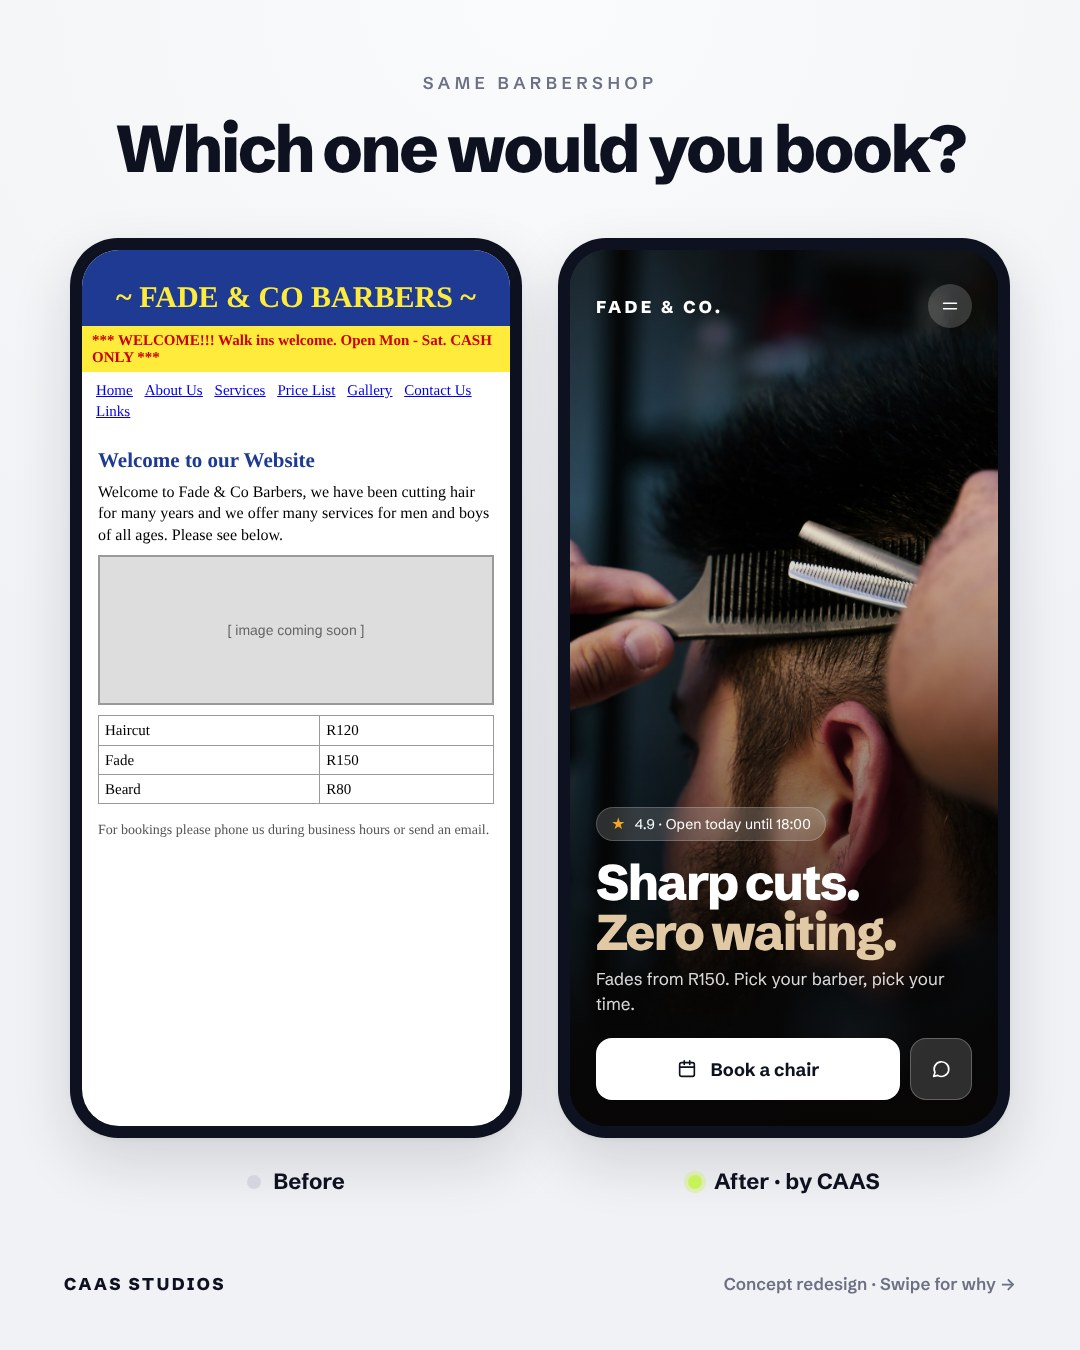
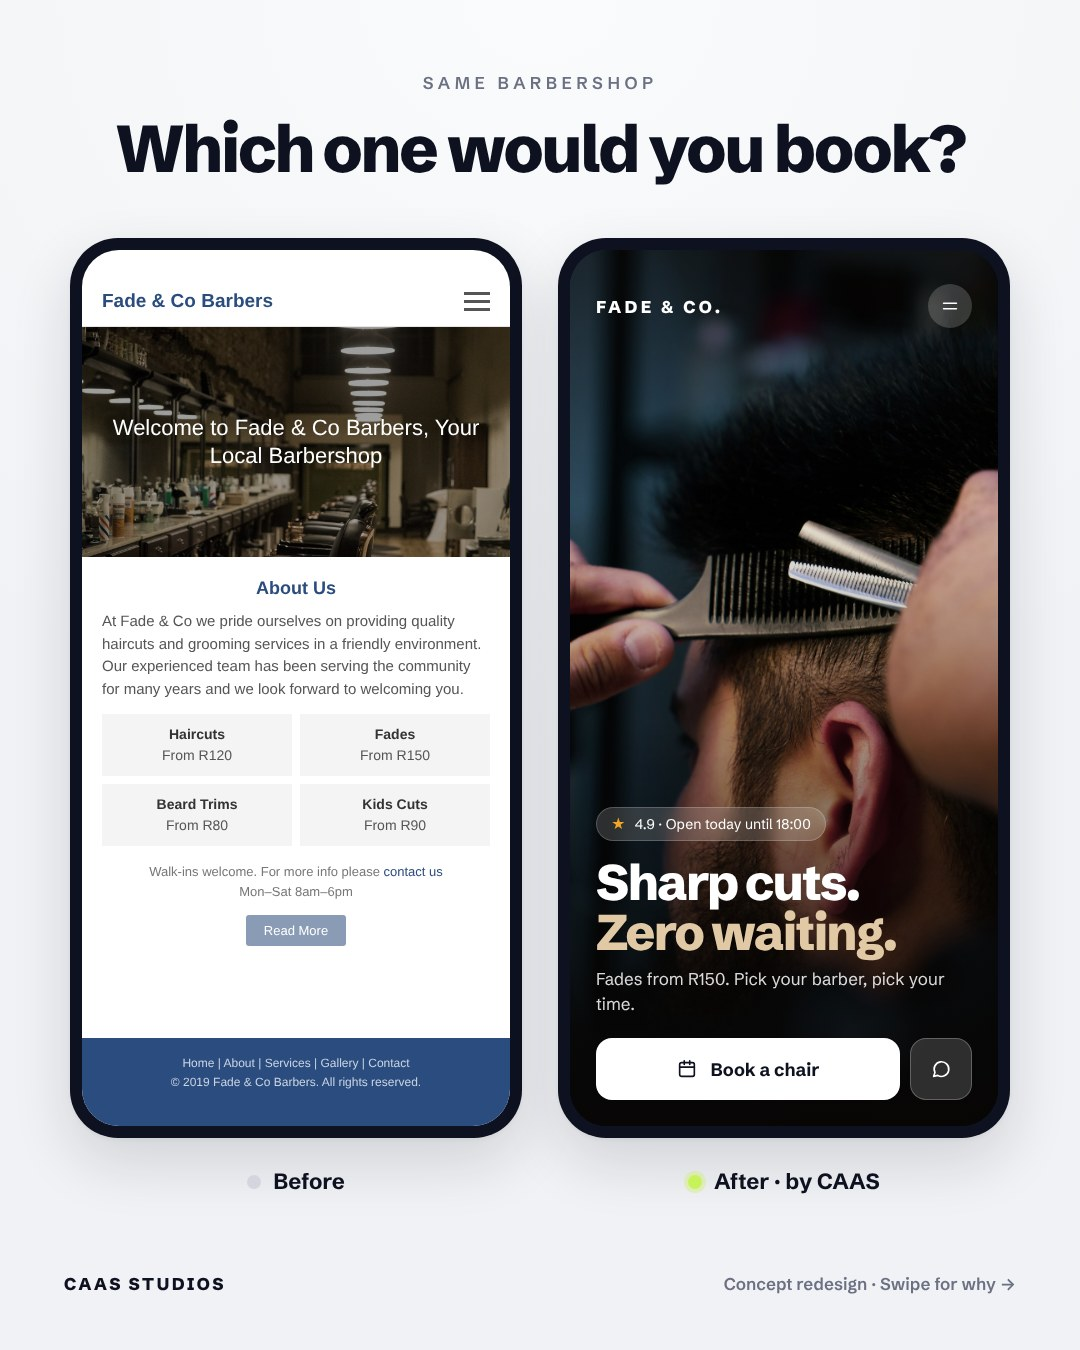
Before/after example: believable template site as the 'before'
Claude-Session: https://claude.ai/code/session_019aZJVd9buMVRKMxeQtoBSs

diff --git a/posts/_examples/03-before-after/slide1.html b/posts/_examples/03-before-after/slide1.html
@@ -10,18 +10,25 @@
   .tag { font-size: 22px; font-weight: 700; display: flex; align-items: center; gap: 12px; }
   .tag .dot { width: 14px; height: 14px; border-radius: 50%; }
 
-  /* BEFORE: a dated, cluttered site */
-  .old { background: #fff; font-family: "Times New Roman", Times, serif; color: #000; }
-  .old .bar { background: #1F3A93; color: #FFEB3B; text-align: center; padding: 30px 10px 12px; font-size: 30px; font-weight: bold; }
-  .old .marq { background: #FFEB3B; color: #C00; font-size: 15px; padding: 6px 10px; font-weight: bold; }
-  .old .links { display: flex; flex-wrap: wrap; gap: 4px 12px; padding: 10px 14px; font-size: 15px; color: #00E; text-decoration: underline; }
-  .old .links span { text-decoration: underline; }
-  .old .body { padding: 6px 16px; font-size: 16px; line-height: 1.35; }
-  .old .body h3 { font-size: 21px; margin: 10px 0 6px; color: #1F3A93; }
-  .old .img { height: 150px; background: #ddd; border: 2px solid #999; display: flex; align-items: center; justify-content: center; color: #666; font-size: 14px; margin: 10px 0; font-family: Arial, sans-serif; }
-  .old table { border-collapse: collapse; width: 100%; font-size: 15px; }
-  .old td { border: 1px solid #999; padding: 4px 6px; }
-  .old .call { margin: 12px 16px; font-size: 14px; color: #555; }
+  /* BEFORE: an average template site — not broken, just forgettable */
+  .old { background: #fff; font-family: Arial, Helvetica, sans-serif; color: #333; }
+  .old .top { display: flex; justify-content: space-between; align-items: center; padding: 40px 20px 14px; border-bottom: 1px solid #e5e5e5; }
+  .old .logo { font-size: 19px; font-weight: bold; color: #2b4c7e; }
+  .old .burger { width: 26px; display: flex; flex-direction: column; gap: 5px; }
+  .old .burger i { height: 3px; background: #555; display: block; }
+  .old .hero { height: 230px; position: relative; display: flex; align-items: center; justify-content: center; text-align: center; }
+  .old .hero .bgp { position: absolute; inset: 0; background-size: cover; background-position: 50% 45%; filter: saturate(0.6) brightness(0.62); }
+  .old .hero h3 { position: relative; color: #fff; font-size: 22px; font-weight: normal; margin: 0; padding: 0 30px; line-height: 1.3; }
+  .old .body { padding: 18px 20px 0; font-size: 15px; line-height: 1.5; color: #555; }
+  .old .body h4 { font-size: 18px; color: #2b4c7e; margin: 0 0 8px; text-align: center; }
+  .old .body p { margin: 0 0 14px; }
+  .old .svc { display: grid; grid-template-columns: repeat(2, minmax(0,1fr)); gap: 8px; font-size: 14px; }
+  .old .svc div { background: #f4f4f4; padding: 10px; text-align: center; }
+  .old .svc b { display: block; color: #333; }
+  .old .contact { margin: 16px 20px 0; font-size: 13px; color: #777; text-align: center; line-height: 1.5; }
+  .old .contact a { color: #2b4c7e; }
+  .old .foot { margin-top: auto; background: #2b4c7e; color: #c9d3e3; font-size: 12px; text-align: center; padding: 16px 12px 34px; line-height: 1.6; }
+  .old .more { margin: 14px auto 0; font-size: 13px; color: #fff; background: #8a9bb5; padding: 8px 18px; border-radius: 3px; }
 
   /* AFTER: the CAAS redesign */
   .new { color: #fff; background: #0B0A09; }
@@ -46,20 +53,21 @@
   <div class="pair">
     <div class="col">
       <div class="phone shadow"><div class="screen old">
-        <div class="bar">~ FADE &amp; CO BARBERS ~</div>
-        <div class="marq">*** WELCOME!!! Walk ins welcome. Open Mon - Sat. CASH ONLY ***</div>
-        <div class="links"><span>Home</span><span>About Us</span><span>Services</span><span>Price List</span><span>Gallery</span><span>Contact Us</span><span>Links</span></div>
+        <div class="top"><div class="logo">Fade &amp; Co Barbers</div><div class="burger"><i></i><i></i><i></i></div></div>
+        <div class="hero"><div class="bgp" style="background-image: url('../../../stock/barbershop/interior.jpg')"></div><h3>Welcome to Fade &amp; Co Barbers, Your Local Barbershop</h3></div>
         <div class="body">
-          <h3>Welcome to our Website</h3>
-          Welcome to Fade &amp; Co Barbers, we have been cutting hair for many years and we offer many services for men and boys of all ages. Please see below.
-          <div class="img">[ image coming soon ]</div>
-          <table>
-            <tr><td>Haircut</td><td>R120</td></tr>
-            <tr><td>Fade</td><td>R150</td></tr>
-            <tr><td>Beard</td><td>R80</td></tr>
-          </table>
+          <h4>About Us</h4>
+          <p>At Fade &amp; Co we pride ourselves on providing quality haircuts and grooming services in a friendly environment. Our experienced team has been serving the community for many years and we look forward to welcoming you.</p>
+          <div class="svc">
+            <div><b>Haircuts</b>From R120</div>
+            <div><b>Fades</b>From R150</div>
+            <div><b>Beard Trims</b>From R80</div>
+            <div><b>Kids Cuts</b>From R90</div>
+          </div>
         </div>
-        <div class="call">For bookings please phone us during business hours or send an email.</div>
+        <div class="contact">Walk-ins welcome. For more info please <a>contact us</a><br>Mon&ndash;Sat 8am&ndash;6pm</div>
+        <div class="more">Read More</div>
+        <div class="foot">Home | About | Services | Gallery | Contact<br>&copy; 2019 Fade &amp; Co Barbers. All rights reserved.</div>
       </div></div>
       <div class="tag"><span class="dot" style="background: #D3D6DE"></span>Before</div>
     </div>
